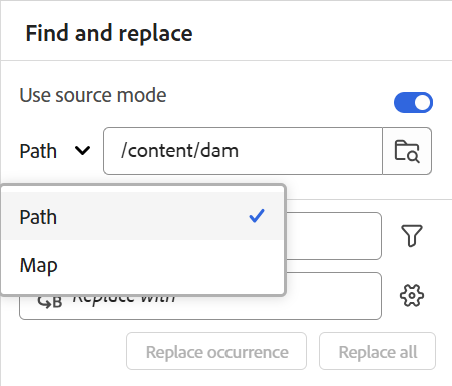
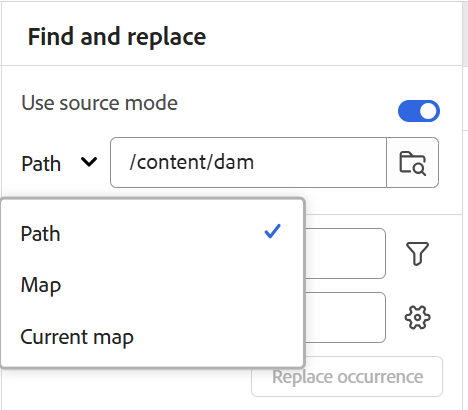
updated the find and replace doc and added known issues

diff --git a/help/product-guide/user-guide/web-editor-left-panel.md b/help/product-guide/user-guide/web-editor-left-panel.md
@@ -1088,7 +1088,7 @@ By default, you can view the files by titles. As you hover over a file, you can 
 
 The Find and Replace feature can be used in two distinct modes, depending on your requirements:
 
-- **With Source mode:** The search scans not only the visible content but also the underlying source content (XML structure, including elements, tags, and attribute values) for the searched term. This mode ensures a comprehensive search across the entire content. 
+- **With Source mode:** The search scans not only the visible content but also the underlying source content (XML structure, including elements, tags, and attribute values) for the searched string. This mode ensures a comprehensive search across the entire content. 
 
     >[!NOTE]
     >
@@ -1101,17 +1101,17 @@ The Find and Replace feature can be used in two distinct modes, depending on you
     ![](images/map-find-replace-with-source-mode.png){align="left"}
 
 <details>
-    <summary> Perform global search and replace with Source mode enabled </summary>
+    <summary> Perform global search and replace with Source mode</summary>
 
-To perform the global search and replace with the Source mode enabled, perform the following steps:
+To perform the global search and replace with the Source mode, perform the following steps:
 
 1. Open the global **Find and replace** panel.
 1. Enable the **Use the source mode** option.
 1. Select the **Path** dropdown and select one of the following options to perform the search.
 
     - **Path**: To search on the selected path
-    - **Map**: To search in the currently opened map
-    - **Select Map**: To search in the selected map
+    - **Map**: To search in some specific map from the Repository or Collections
+    - **Current Map**: To search in the currently opened map
 
     ![](images/path-dropdown-source-mode.png){align="left"}     
 
@@ -1171,7 +1171,7 @@ To enable the **Replace all** button, your folder profile administrator or syste
 
     ![](images/snapshot-replace-all.png){align="left"}
 
-Only one replace all operation can be performed at a time in the whole system, and till the time operation is being performed you will view "Replace all in progress" status. You can also abort the replace all operation in between. If you abort the operation, you will receive a notification about it in your Inbox. 
+Only one replace all operation can be performed at a time in the whole system, and till the time operation is being performed you will view "Replace all in progress" status. You can also abort the replace all operation in between. If you abort the operation, you will receive a notification about it in your Inbox. The Replace all option can fail under some instances like, if the file is locked by some one else, and more.  
 
 ![](images/replace-all-in-progress-source-mode.png){width="300" align="left"}
 
@@ -1182,18 +1182,19 @@ Only one replace all operation can be performed at a time in the whole system, a
 
     ![](images/map-find-replace-without-source-mode.png){align="left"}
 
+<br><br>
 <details>
-    <summary> Perform global search and replace with Source mode disabled </summary>
+    <summary> Perform global search and replace without Source mode</summary>
 
 
-To perform the global search and replace, perform the following steps:
+To perform the global search and replace without Source mode, perform the following steps:
 
 1. Open the global **Find and replace** panel.
 1. Select the **Path** dropdown and choose one of the following options to perform the search.
 
     - **Path**: To search on the selected path
-    - **Map**: To search in the currently opened map
-    - **Select Map**: To search in the selected map
+    - **Map**: To search in some specific map from the Repository or Collections
+    - **Current Map**: To search in the currently opened map
 
     ![](images/path-dropdown.png){align="left"}  
         

diff --git a/help/product-guide/cs-install-guide/custom-indexing.md b/help/product-guide/cs-install-guide/custom-indexing.md
@@ -5,22 +5,13 @@ feature: Web Editor Configuration
 role: Admin
 level: Experienced
 ---
-# Deploying custom index for Markup Search and Replace feature
+# Deploying custom index for Find and replace feature
 
 ## Overview
 
-This guide provides step-by-step instructions for deploying the `guidesAssetLucene-1-custom-1` custom index on Adobe Experience Manager (AEM) as a Cloud Service. This index is required to enable the **Markup Search and Replace** feature, which allows you to search and replace text across DITA XML and Markdown files in your AEM Guides environment.
+This guide provides step-by-step instructions for deploying the `guidesAssetLucene-1-custom-1` custom index on Adobe Experience Manager (AEM) as a Cloud Service. This index is required to enable the **Find and replace** feature, which allows you to scan the entire content visible in the Author view and also the underlying Source content (XML structure, including elements, tags, and attribute values) for the searched string.
 
-### Markup Search and Replace feature
-
-The Markup Search and Replace feature enables content authors and administrators to:
-
-- Search for specific text patterns across DITA topics and Markdown files.
-- Replace text in multiple files simultaneously.
-- Perform bulk content updates efficiently.
-- Maintain content consistency across large documentation sets.
-
-### Prerequisites
+## Prerequisites
 
 Before proceeding with the index deployment, ensure you have:
 
@@ -32,7 +23,7 @@ Before proceeding with the index deployment, ensure you have:
 
 ## Index definition
 
-To enable the Markup Search and Replace feature, you need to deploy a custom index named **`guidesAssetLucene-1-custom-1`** to your AEM Cloud Service environment.
+To enable the Find and replace feature, you need to deploy a custom index named **`guidesAssetLucene-1-custom-1`** to your AEM Cloud Service environment.
 
 ### Index name
 
@@ -163,7 +154,7 @@ For detailed instructions on deploying custom indexes to AEM as a Cloud Service,
 
 ### Important points for this Index
 
-When following the deployment guide, use the following specifics for the Markup Search and Replace index:
+When following the deployment guide, use the following specifics for the Find and replace index:
 
 - **Index name**: `guidesAssetLucene-1-custom-1`
 - **Index type**: Fully custom index (not a customization of OOTB index)
@@ -193,7 +184,7 @@ In your development environment (if CRXDE Lite is available):
 1. Navigate to `/oak:index/guidesAssetLucene-1-custom-1`.
 2. Verify the node exists with the expected configuration.
 
-### Test the Markup Search and Replace feature
+### Test the Find and replace feature
 
 The primary verification is testing the feature:
 

diff --git a/help/product-guide/release-info/fixed-issues-2026-01-0.md b/help/product-guide/release-info/fixed-issues-2026-01-0.md
@@ -47,9 +47,11 @@ Learn about [upgrade instructions for the 2026.01.0 release](upgrade-instruction
 
 ## Known issues
 
-Adobe has identified the following known issues for the 2025.11.0 release:
+Adobe has identified the following known issues for the 2026.01.0 release:
 
-
+- When an in-review topic is removed from an ongoing review task, its document state continues to remain **In Review**, even though the topic is no longer part of any review task. (GUIDES-38709)
+- When performing a search using **Find and Replace**, if you open a file from the search results, close it, and then attempt to reopen it by selecting the listed result, the file fails to reopen. (GUIDES-39050)
+- When using database server, for content that includes self-references, the Topic list report displays invalid entries for each self-reference, resulting in an inaccurate file count. (GUIDES-39420)
 
 
 

diff --git a/help/product-guide/install-guide/custom-indexing-prem.md b/help/product-guide/install-guide/custom-indexing-prem.md
@@ -5,9 +5,9 @@ feature: Web Editor Configuration
 role: Admin
 level: Experienced
 ---
-# Reindexing for Markup Search and Replace feature
+# Reindexing for Find and replace feature
 
-Reindexing is required to enable the **Markup Search and Replace** feature, which allows you to search and replace text across DITA XML and Markdown files in your AEM Guides environment.
+Reindexing is required to enable the **Find and replace** feature,  which allows you to scan the entire content visible in the Author view and also the underlying Source content (XML structure, including elements, tags, and attribute values) for the searched string.
 
 ## Reindexing
 
